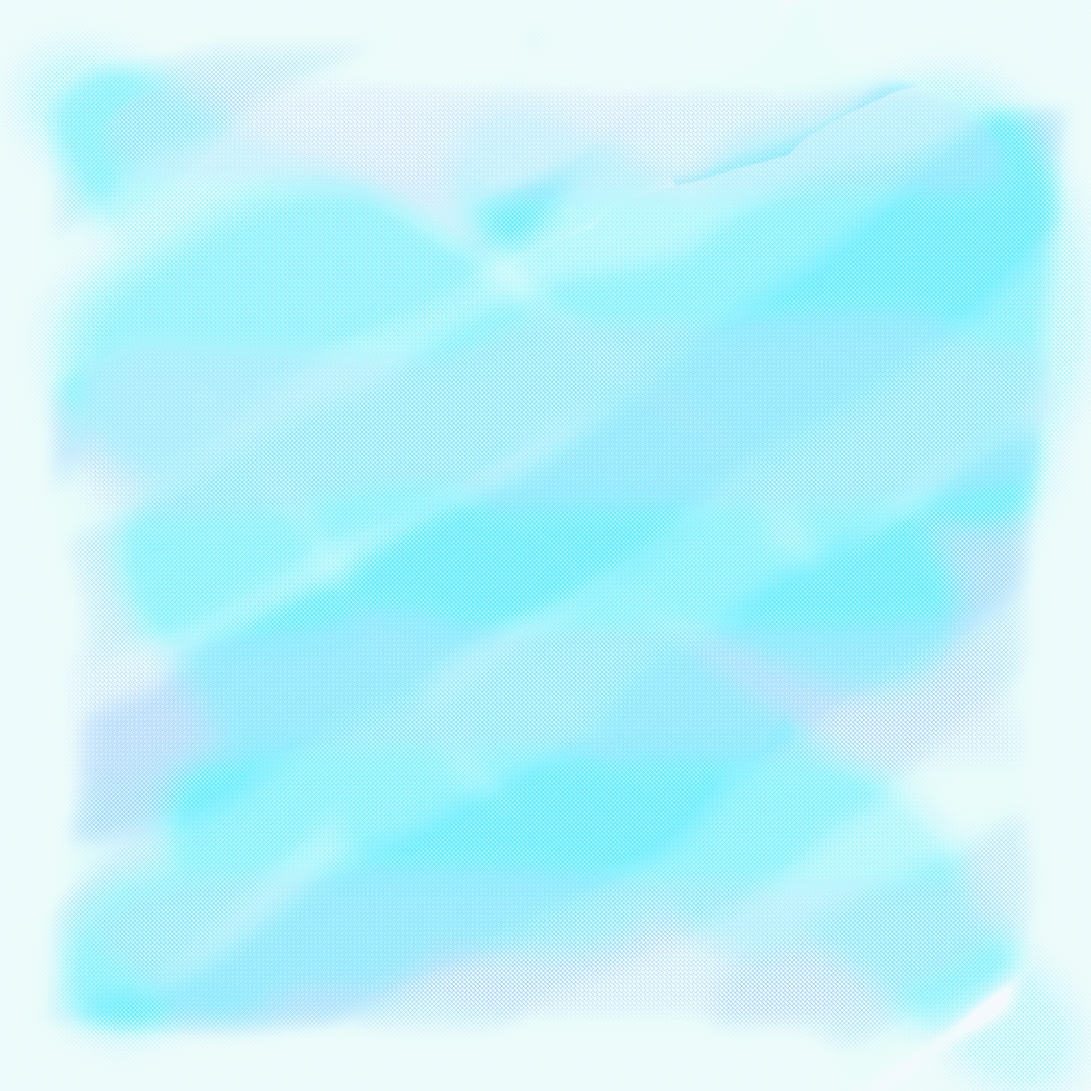
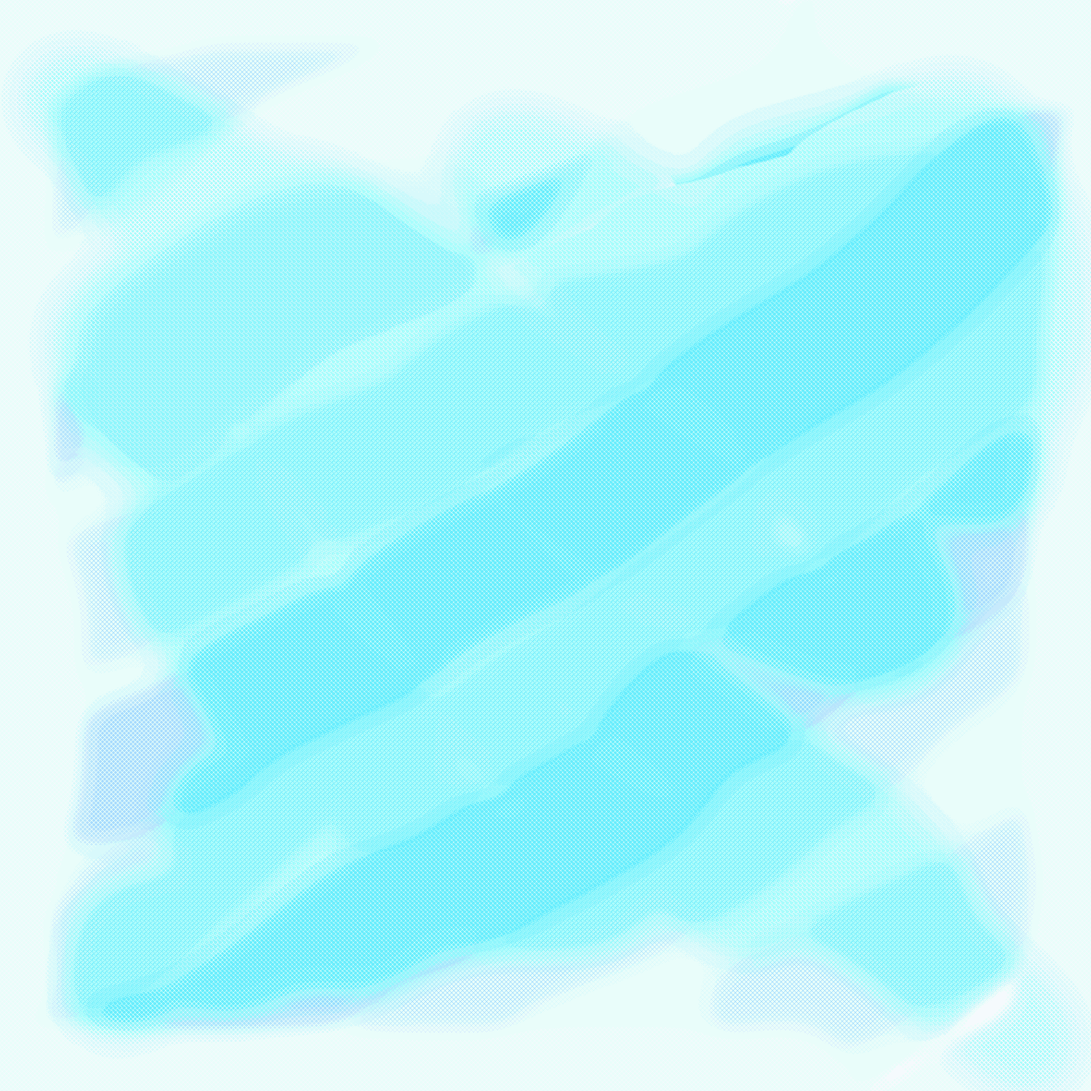
Jitter Problem Fix

diff --git a/Lo-Jam/Camera.cpp b/Lo-Jam/Camera.cpp
@@ -1,6 +1,7 @@
 #include "Camera.h"
 #include "GameObject.h"
 #include <iostream>
+#include <cmath>
 
 
 
@@ -8,7 +9,7 @@ Camera::Camera(sf::RenderWindow * window_): window(window_)
 {
 	view.setCenter(sf::Vector2f(1024.f, 1024.f));
 	updateViewSize();
-
+	frame = 60;
 	
 }
 
@@ -35,9 +36,13 @@ void Camera::Update()
 {
 	if (followTarget) {
 		//TODO: Remove flickering by rounding values to int value.
-		view.setCenter(followTarget->getPosition());
+		
+			imageBuffer = followTarget->getPosition();
+			
+		view.setCenter(sf::Vector2<float>(std::round(imageBuffer.x), std::round(imageBuffer.y)));
 		SetAsMainView();
 	}
+	frame++;
 }
 
 void Camera::Render()

diff --git a/Lo-Jam/Camera.h b/Lo-Jam/Camera.h
@@ -1,13 +1,16 @@
 #ifndef CAMERA_H
 #define CAMERA_H
 #include "SFML.h"
+#include "SFML/System/Vector2.hpp"
 
 class Camera {
 private:
 	class GameObject* followTarget;
 	sf::View view;
 	sf::RenderWindow* window;
+	sf::Vector2<float> imageBuffer;
 	inline void updateViewSize() { view.setSize(sf::Vector2f(window->getSize().x, window->getSize().y)); SetAsMainView(); view.zoom(4); }
+	int frame;
 
 public:
 	Camera(sf::RenderWindow * window_);

diff --git a/Lo-Jam/Entity.cpp b/Lo-Jam/Entity.cpp
@@ -28,7 +28,13 @@ void Entity::Update() {
 	else speed = 3;
 
 	if (magnitude > 0.5f) {
-		move(direction * speed);
+		direction.x = std::round(direction.x * speed);
+		direction.y = std::round(direction.y * speed);
+		move(direction);
+	}
+	else
+	{
+		magnitude = 0.0f;
 	}
 
 	printf("%f\n", magnitude);
